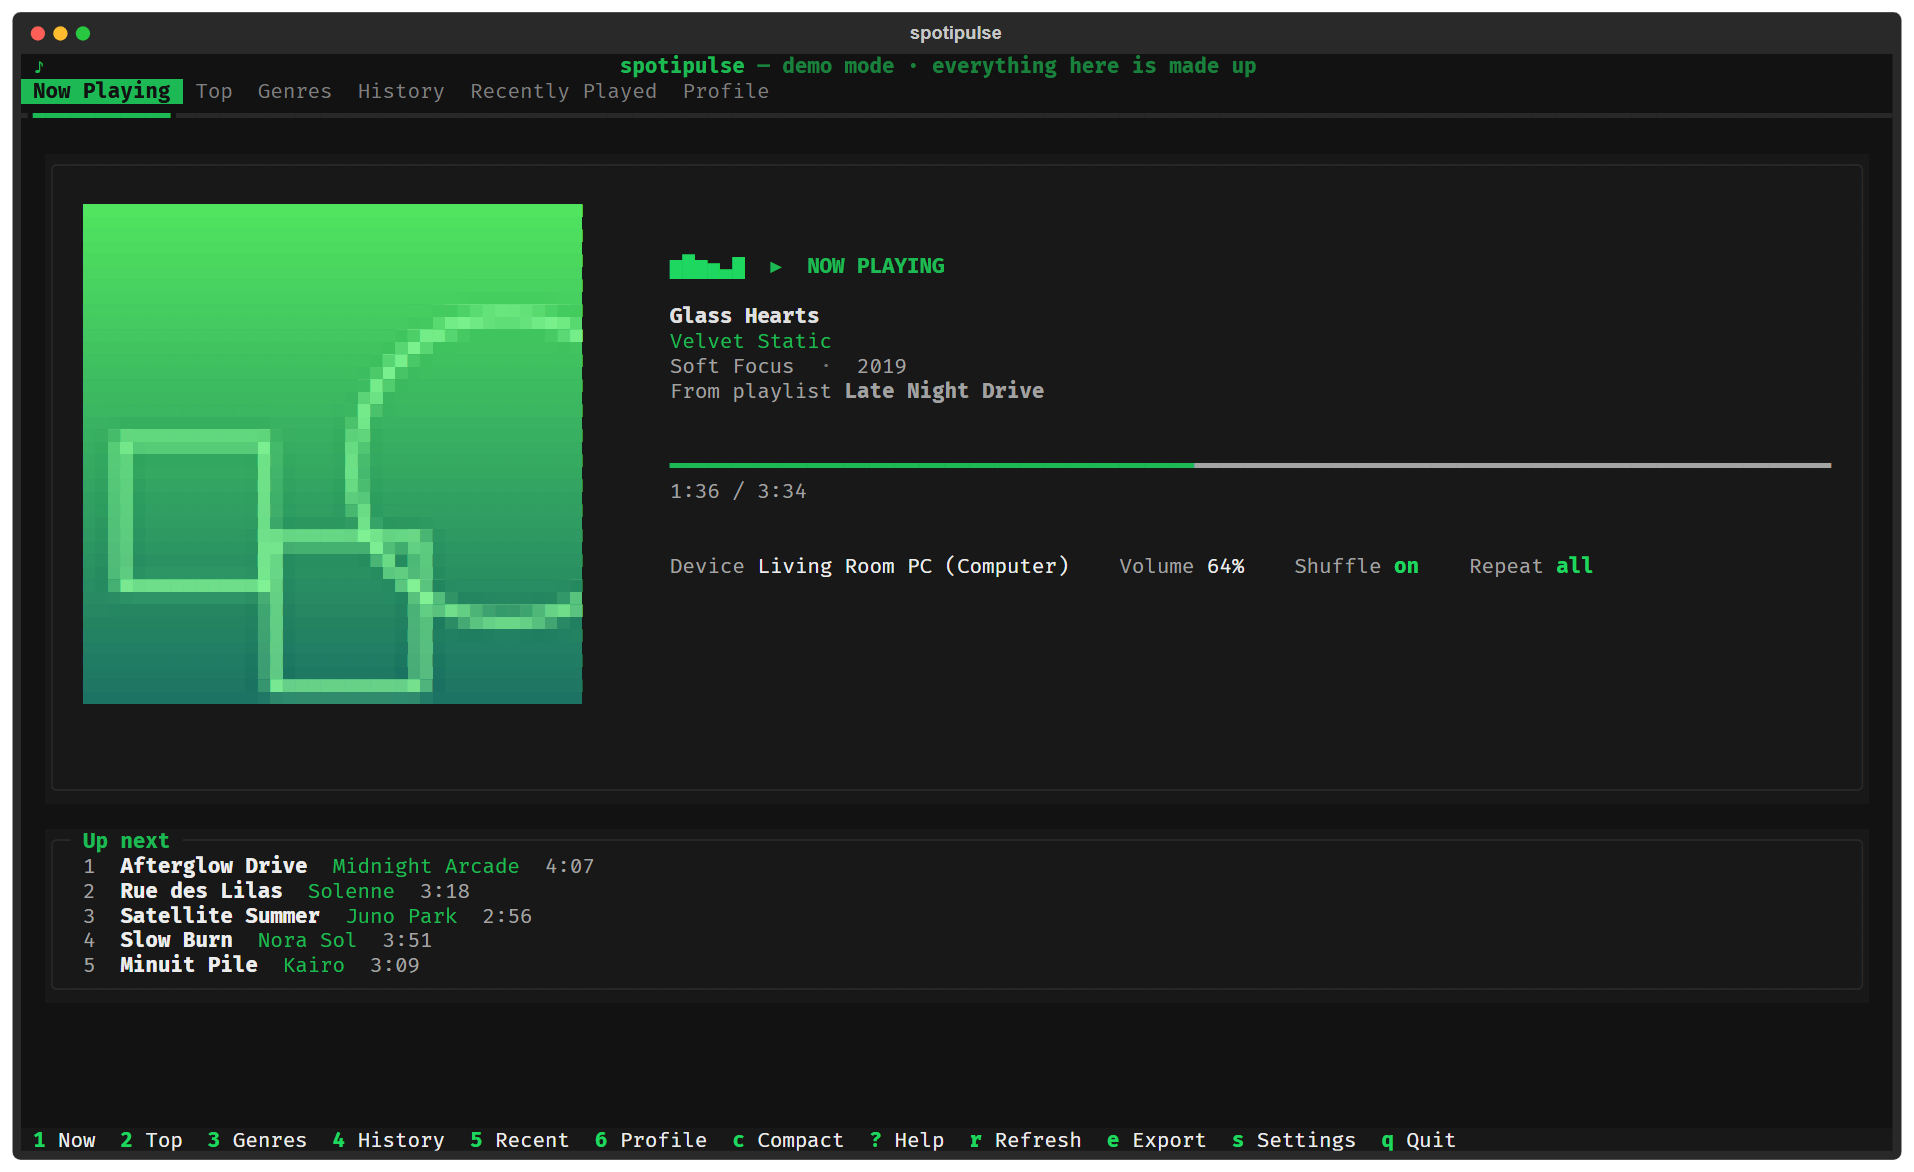
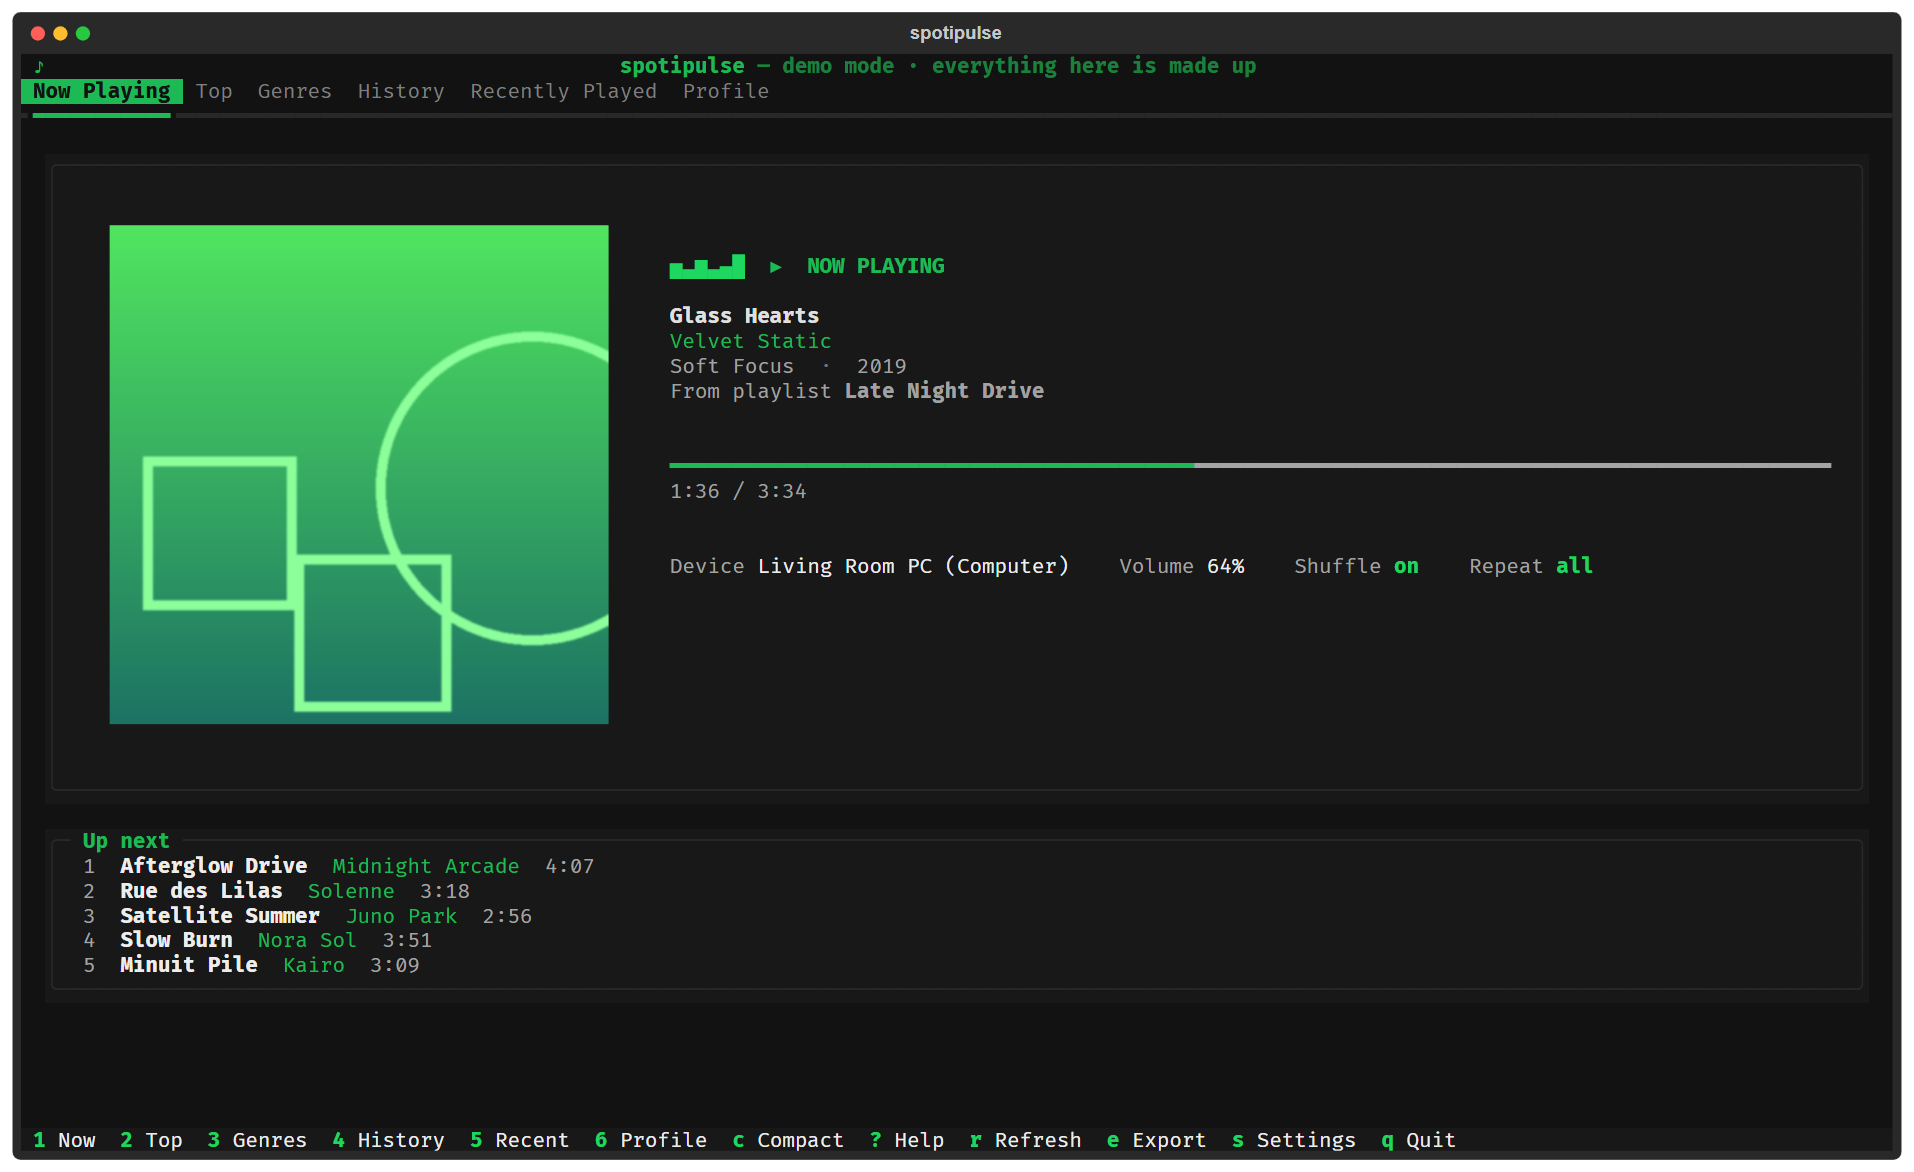
Show sharp cover art in the README screenshots

Changed region(s): [[0.0308, 0.1536, 0.3699, 0.6451]]

diff --git a/src/spotipulse/demo.py b/src/spotipulse/demo.py
@@ -73,10 +73,10 @@ GENRES_ORDER = {"short_term": 0, "medium_term": 1, "long_term": 2}
 
 
 @lru_cache(maxsize=64)
-def cover(seed: int) -> Image.Image:
+def cover(seed: int, size: int = 600) -> Image.Image:
     """A generated album cover: a soft two-color gradient with a few shapes."""
     rng = random.Random(seed)
-    size = 300
+    k = size / 300
     hue = rng.random()
     first = tuple(int(c * 255) for c in colorsys.hsv_to_rgb(hue, 0.65, 0.9))
     second = tuple(int(c * 255) for c in colorsys.hsv_to_rgb((hue + 0.12) % 1, 0.75, 0.45))
@@ -86,14 +86,15 @@ def cover(seed: int) -> Image.Image:
     )
     draw = ImageDraw.Draw(image)
     for _ in range(3):
-        r = rng.randint(30, 110)
-        x, y = rng.randint(0, size), rng.randint(0, size)
+        r = rng.randint(30, 110) * k
+        x, y = rng.randint(0, 300) * k, rng.randint(0, 300) * k
         light = tuple(min(255, c + 60) for c in first)
+        box = (x - r, y - r, x + r, y + r)
         if rng.random() < 0.5:
-            draw.ellipse((x - r, y - r, x + r, y + r), outline=light, width=6)
+            draw.ellipse(box, outline=light, width=round(6 * k))
         else:
-            draw.rectangle((x - r, y - r, x + r, y + r), outline=light, width=6)
-    return image.filter(ImageFilter.GaussianBlur(0.6))
+            draw.rectangle(box, outline=light, width=round(6 * k))
+    return image.filter(ImageFilter.GaussianBlur(0.6 * k))
 
 
 def _track(index: int) -> Track:

diff --git a/tests/test_demo.py b/tests/test_demo.py
@@ -26,7 +26,7 @@ def test_demo_data_is_consistent():
     assert now.is_playing and 0 <= now.progress_ms <= now.track.duration_ms
     assert len(api.queue(5)) == 5 and api.context_name("playlist", "x") == "Late Night Drive"
     assert len(api.recently_played(50)) == 50
-    assert api.image("demo://cover/Soft Focus").size == (300, 300)
+    assert api.image("demo://cover/Soft Focus").size == (600, 600)
     assert api.image(None) is None
 
 
